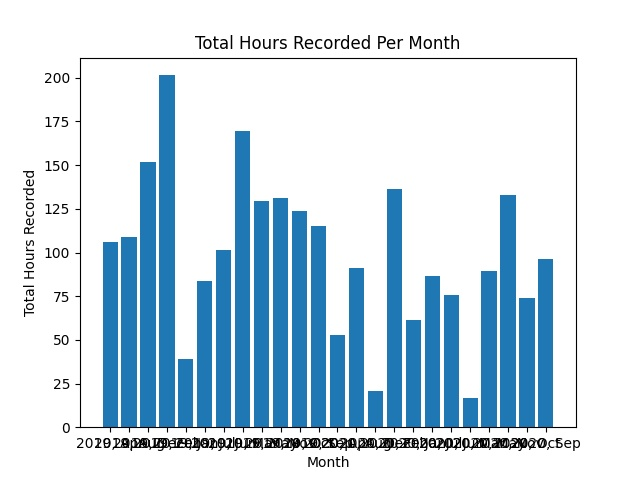
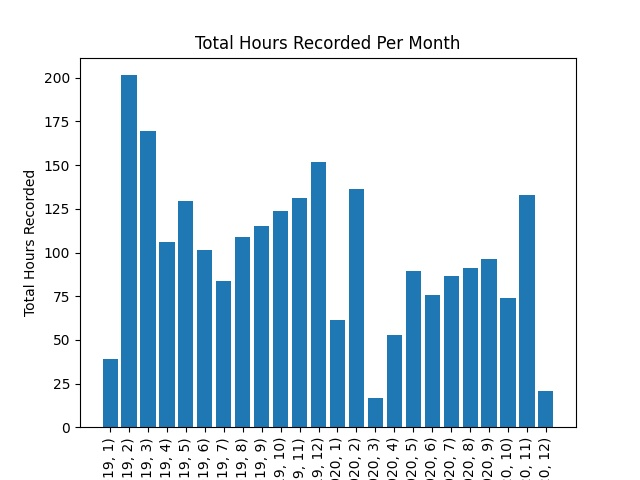
Fix x-label orientation and database sort error

diff --git a/dvrmediaanalysis.py b/dvrmediaanalysis.py
@@ -106,7 +106,7 @@ class MyWindow(QtWidgets.QMainWindow, Ui_MainWindow):
                 recorded_year = datetime_encodetime.year
 
                 #Put the year and month together
-                recorded_year_month = str(recorded_year) + ", " + self.month_int_to_str(recorded_month)
+                recorded_year_month = (recorded_year, recorded_month)
 
                 #put the updated time back into the copy of the movie data
                 movie_data_dict.update({"EncodeTime":datetime_encodetime})
@@ -154,6 +154,7 @@ class MyWindow(QtWidgets.QMainWindow, Ui_MainWindow):
         plt.ylabel(self.single_graph_labels_dict["Y-Label"])
         plt.title(self.single_graph_labels_dict["Title"])
         plt.xticks(range(len(height)), keys)
+        plt.xticks(rotation=90)
         plt.bar(range(len(height)), height)
         #Save graph
         self.save_graph(self.single_graph_labels_dict["Title"])
